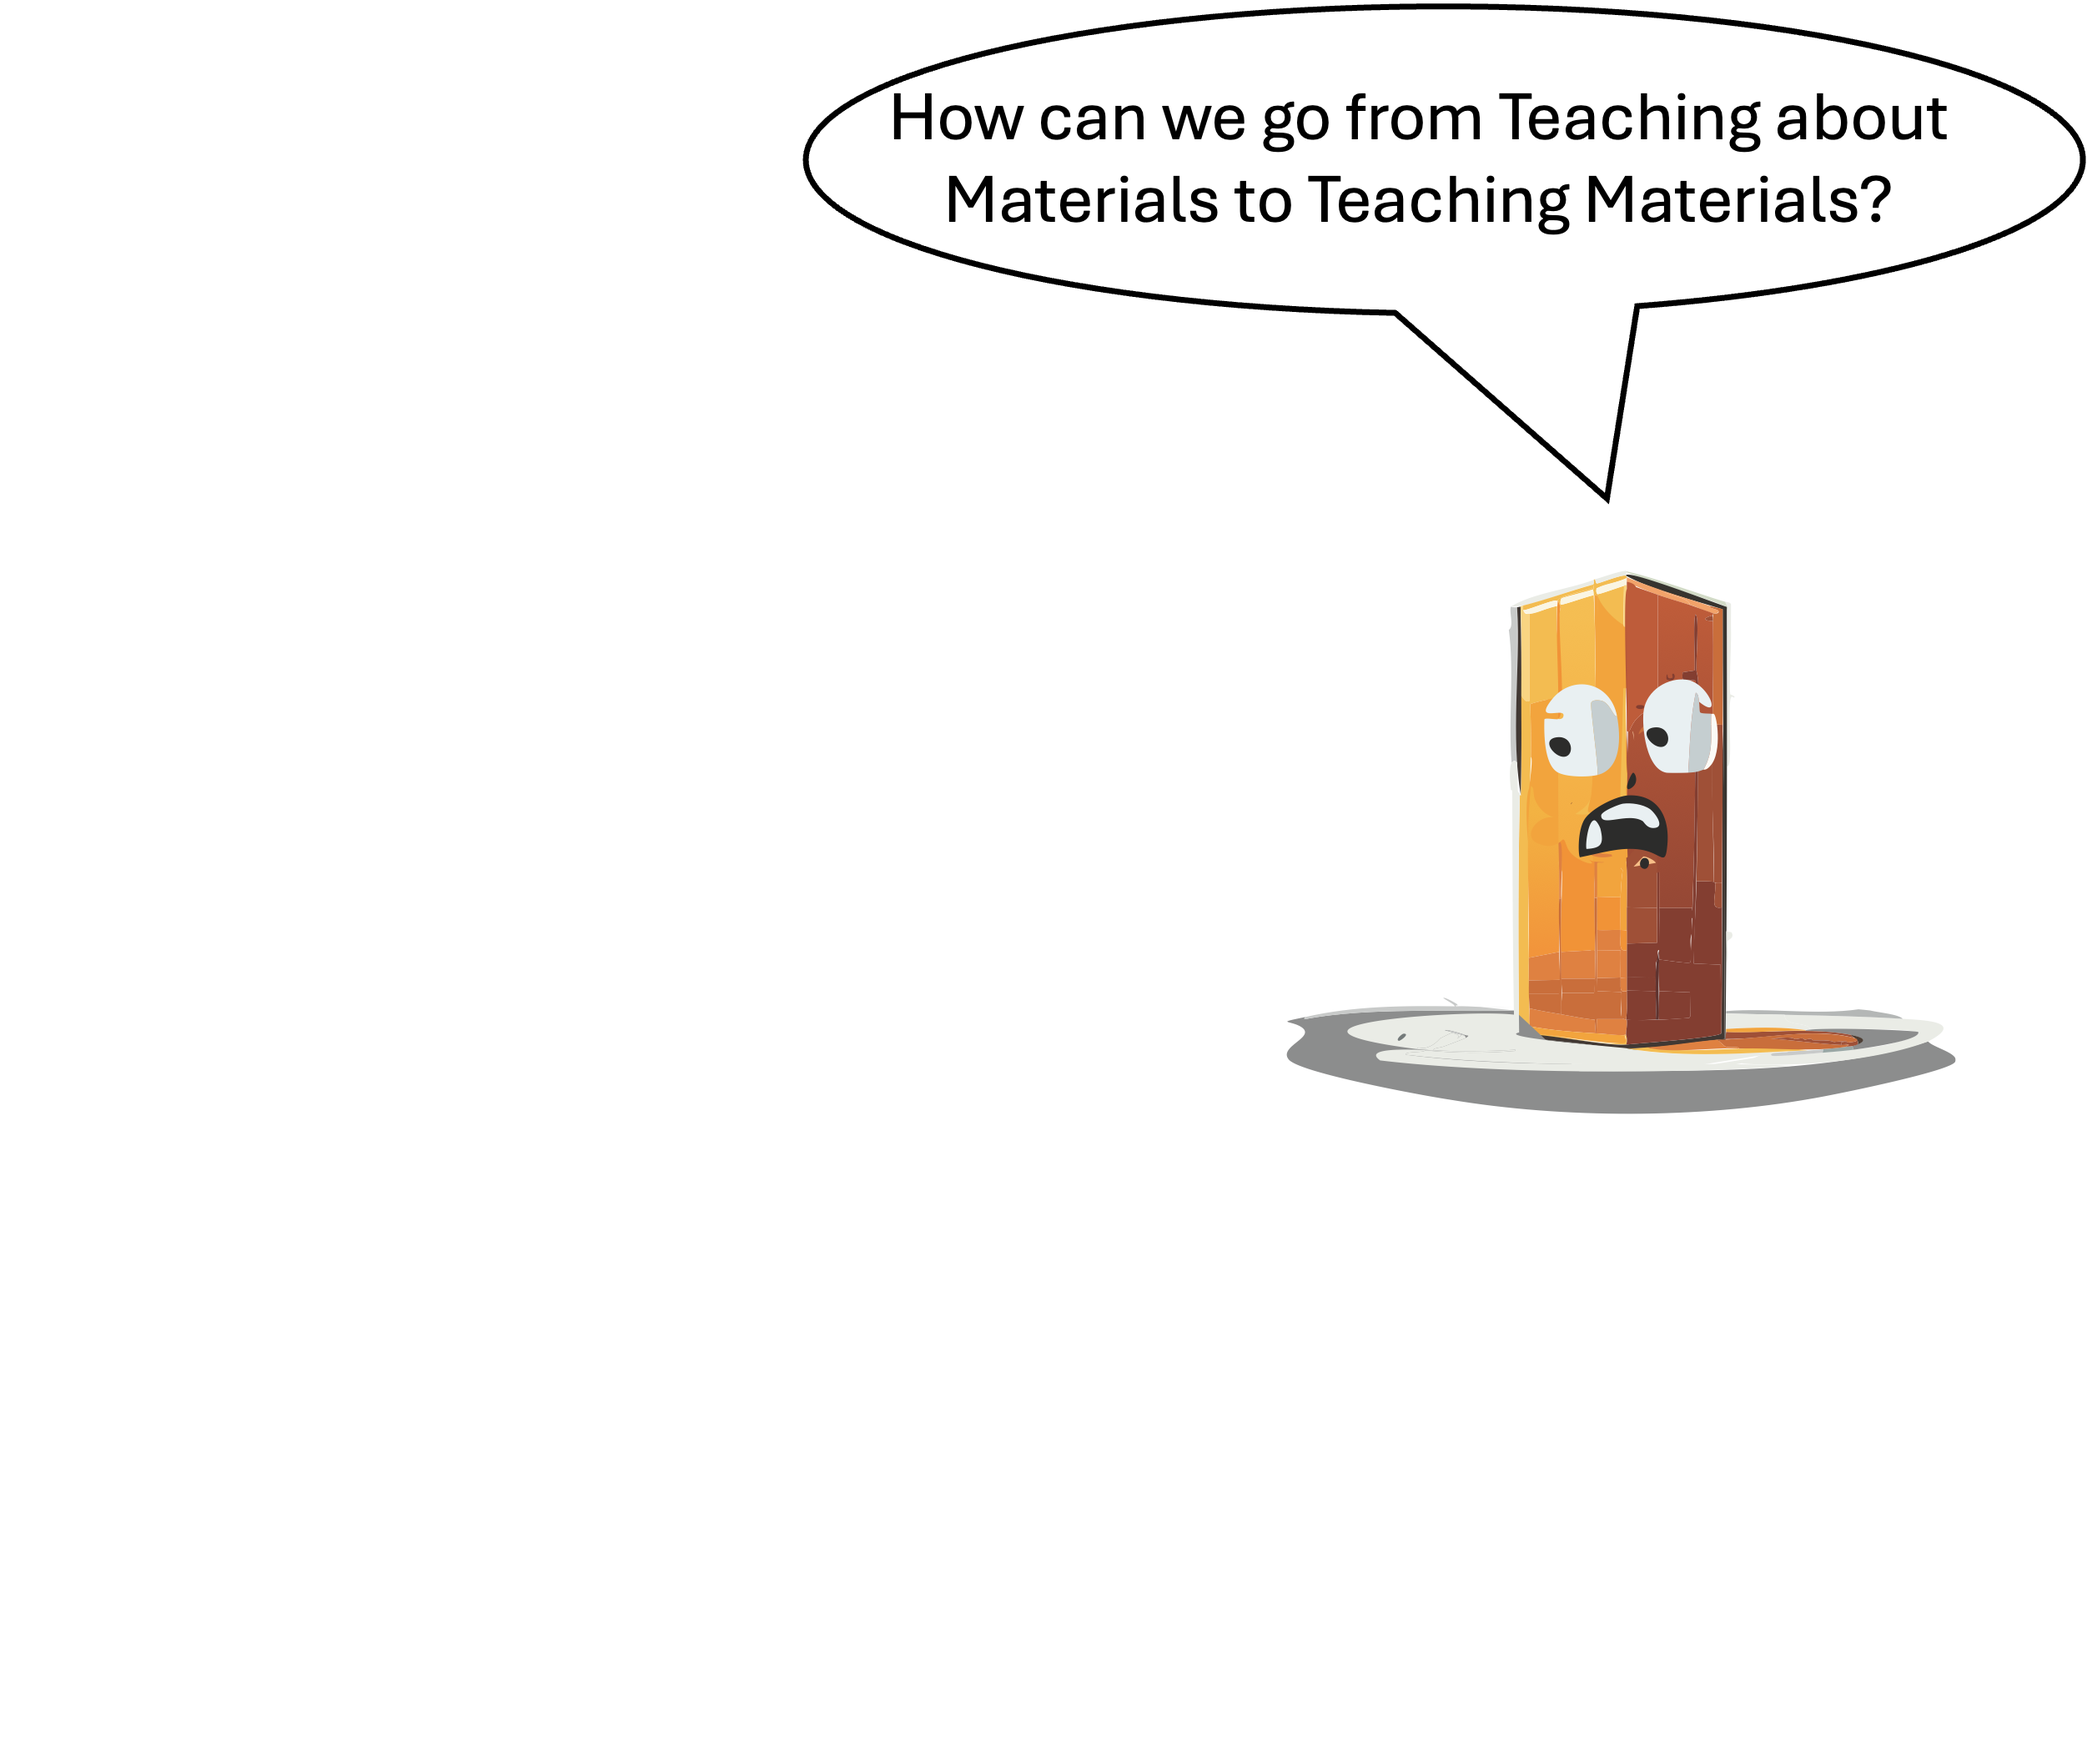
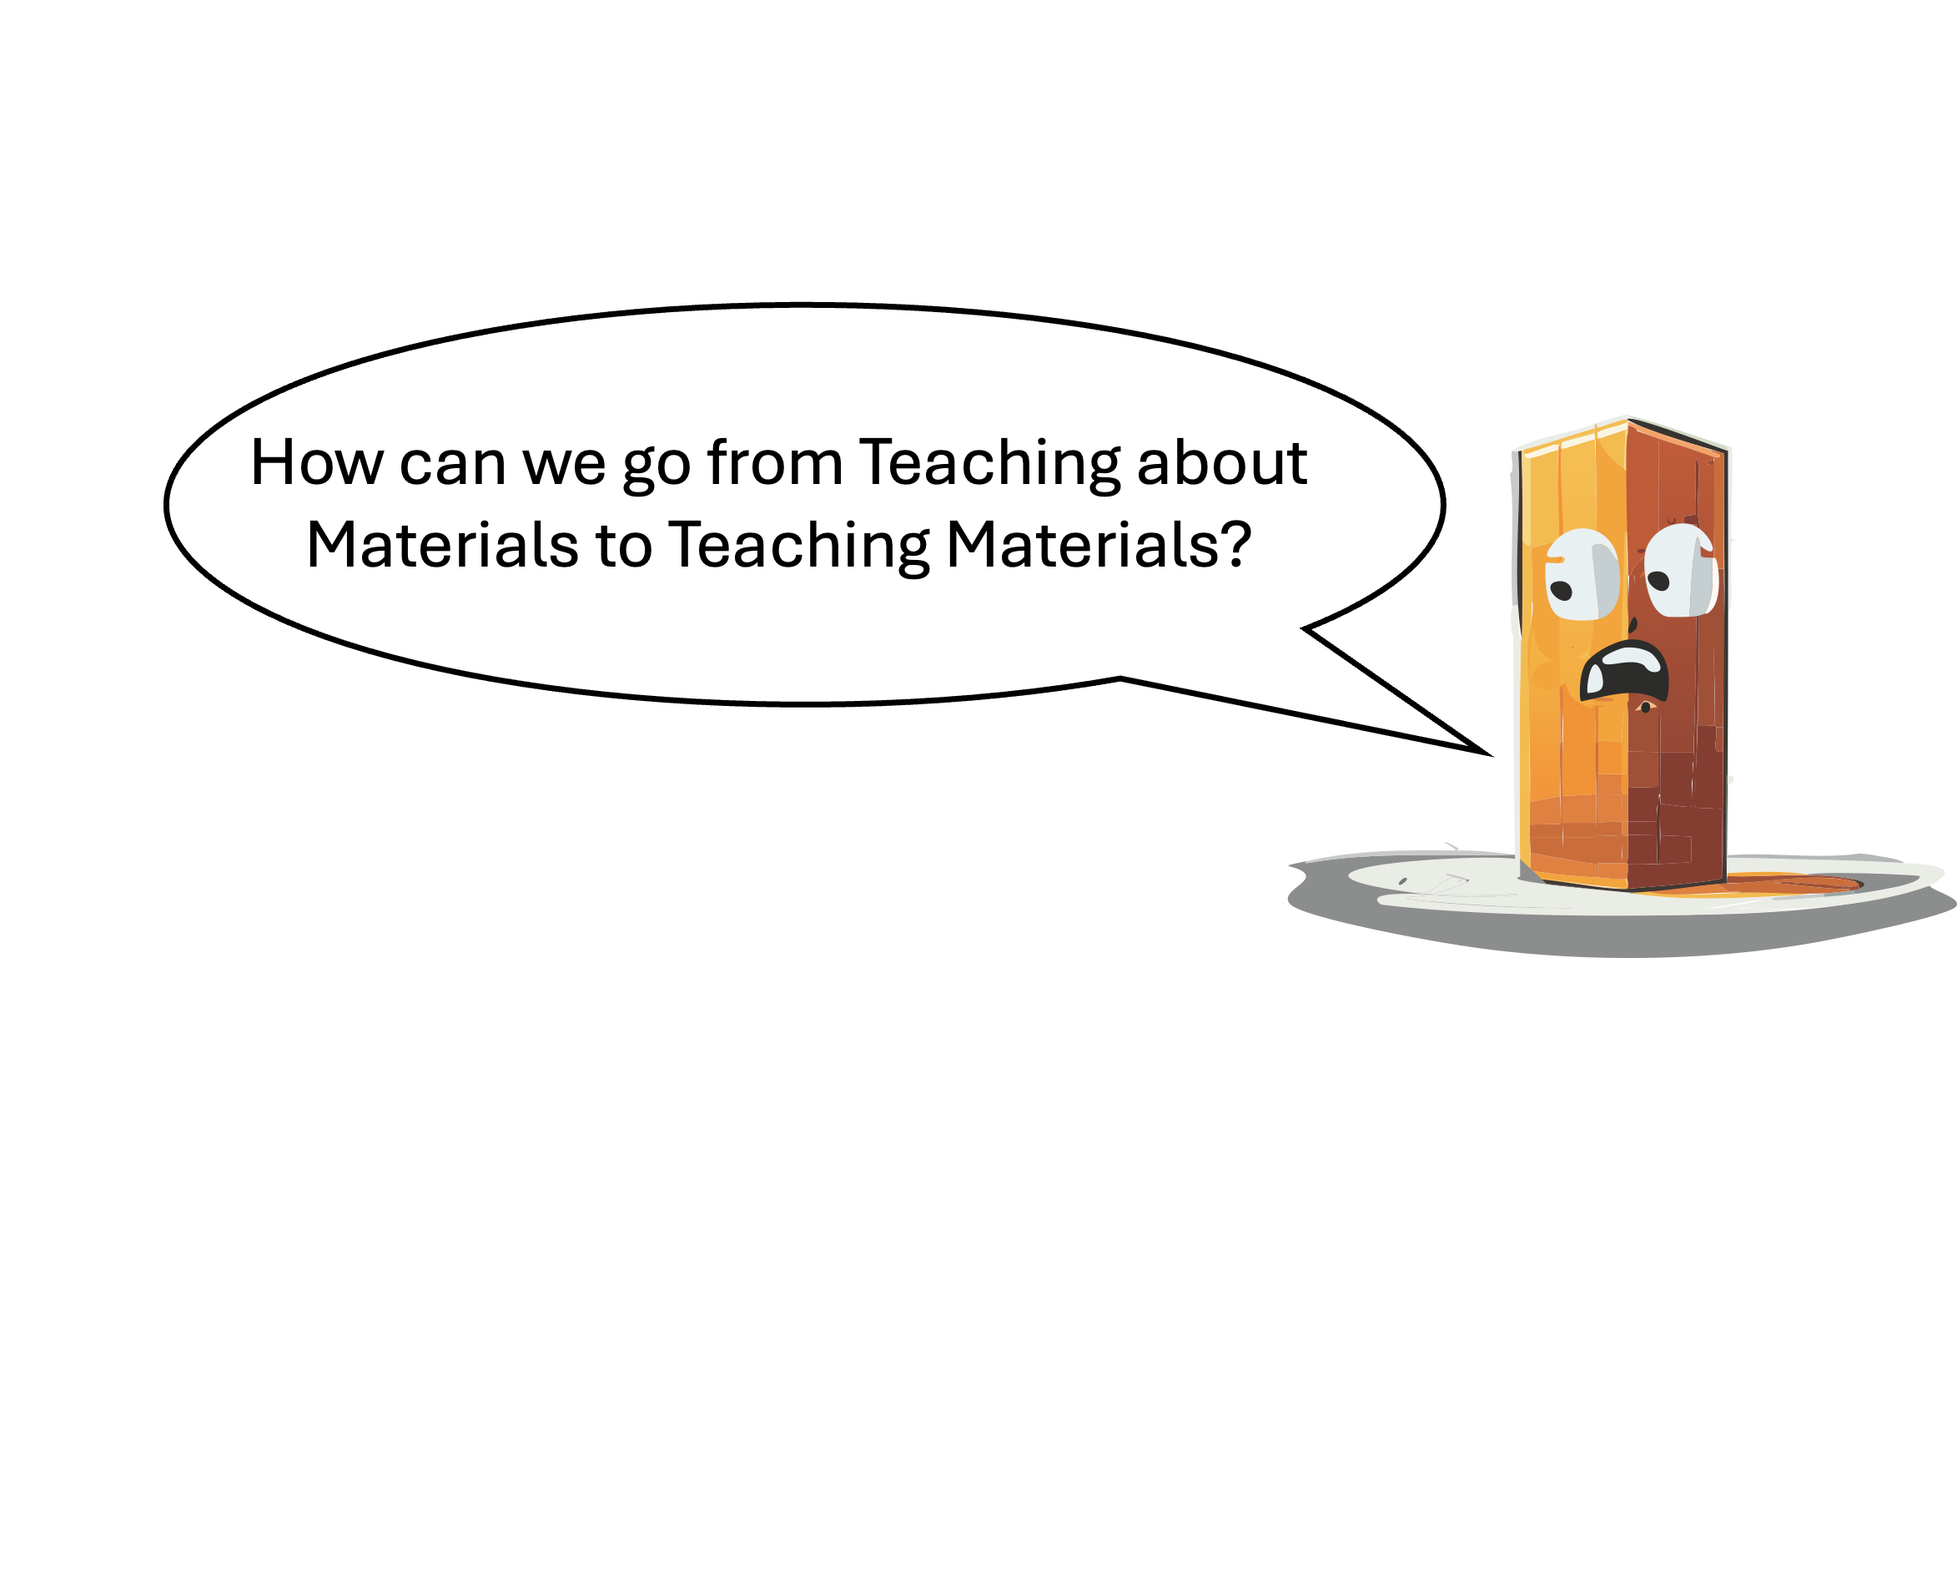
fixes

diff --git a/style.css b/style.css
@@ -95,8 +95,9 @@ video.card3-gif {
 
 /* Card 3 specific cartoon - larger size to fill available space */
 .card3-cartoon {
-  max-width: 800px !important;
-  width: 800px !important;
+  max-width: 500px !important;
+  width: 500px !important;
+  height: auto !important;
 }
 
 .abs-cartoon {
@@ -1094,8 +1095,8 @@ a:hover {
   color: #fff !important;
 }
 
-/* Ensure menu does not affect layout */
-.menu-container {
+/* Ensure menu does not affect layout - only apply on non-index pages */
+body:not(.index-page) .menu-container {
   position: fixed;
   top: 0;
   left: 0;
@@ -1122,63 +1123,58 @@ a:hover {
   justify-content: center;
   width: 100%;
   max-width: 1400px;
-  margin: 0 auto;
+  margin: 4em auto 0 auto;
   position: relative;
   z-index: 4;
-  gap: 0.5em;
-  padding: 2em 1em;
+  gap: 1em; /* REDUCED: from 2em to 1em - elements get closer */
+  padding: 2em 0.5em; /* REDUCED: side padding from 1em to 0.5em */
   /* Firefox compatibility fixes */
   flex-wrap: nowrap;
   min-height: 0;
   box-sizing: border-box;
 }
 .card3-video-wrap {
-  flex: 1 1 400px;
-  min-width: 300px;
-  max-width: 450px;
+  flex: 0 0 280px; /* REDUCED: from 300px to 280px */
+  width: 280px; /* REDUCED: from 300px to 280px */
   display: flex;
   align-items: center;
   justify-content: center;
-  margin-left: -190px; /* requested left shift; preserves current layout */
   /* Firefox compatibility fixes */
   flex-shrink: 0;
   box-sizing: border-box;
   overflow: hidden;
 }
 .card3-text-wrap {
-  flex: 1 1 400px;
-  max-width: 550px;
+  flex: 1;
+  max-width: 800px; /* REDUCED: from 1000px to 800px */
+  min-width: 400px !important; /* REDUCED: from 600px to 400px */
   display: flex;
   align-items: center;
   justify-content: center;
-  padding: 0 0em;
+  padding: 0 0.5em; /* REDUCED: from 1em to 0.5em */
   /* Firefox compatibility fixes */
   flex-shrink: 1;
   box-sizing: border-box;
   min-width: 0; /* Important for Firefox text wrapping */
 }
 .card3-cartoon-wrap {
-  flex: 0 0 400px;      /* wider to accommodate larger cartoon */
-  min-width: 350px;
-  margin-left: 3em;     /* more gap from the paragraph */
-  margin-top: -70px;    /* lift bubble to sit over the title line */
-  transform: none;
-  align-items: flex-start;
-  position: relative;
-  z-index: 12;          /* ensure bubble overlays the title */
+  flex: 0 0 450px; /* REDUCED: from 500px to 450px */
+  width: 450px; /* REDUCED: from 500px to 450px */
+  display: flex;
+  align-items: center;
+  justify-content: center;
+  margin-top: 10px;
   /* Firefox compatibility fixes */
   flex-shrink: 0;
   box-sizing: border-box;
-  display: flex;
 }
 .card3-cartoon-img {
-  width: 100%;
-  max-width: 650px;     /* even larger cartoon to fill space */
-  position: relative;
-  z-index: 12;          /* above title */
-  pointer-events: none; /* avoid intercepting clicks */
-  /* Firefox compatibility fixes */
+  width: 450px !important; /* REDUCED: from 500px to 450px */
+  max-width: 450px !important; /* REDUCED: from 500px to 450px */
   height: auto;
+  position: relative;
+  pointer-events: none;
+  /* Firefox compatibility fixes */
   display: block;
   box-sizing: border-box;
 }
@@ -1186,16 +1182,7 @@ a:hover {
 /* Firefox-specific fixes */
 @-moz-document url-prefix() {
   .card3-row {
-    gap: 1em; /* Increase gap for Firefox */
-  }
-  
-  .card3-video-wrap {
-    margin-left: -150px; /* Less aggressive negative margin for Firefox */
-  }
-  
-  .card3-cartoon-wrap {
-    margin-top: -50px; /* Less aggressive negative margin for Firefox */
-    margin-left: 2em;
+    gap: 2em; /* Maintain consistent gap for Firefox */
   }
   
   video.card3-gif {

diff --git a/index.html b/index.html
@@ -347,7 +347,7 @@
                   
                   <!-- Center Text - made broader -->
                   <div class="card3-text-wrap">
-                    <p class="carousel-textbox" style="background: rgba(17,17,17,0.92); border-radius: 1em; padding: 1em 1.5em; line-height: 1.4;">By orchestrating structure and responsiveness across scales, we enable materials to exhibit higher-order functions—such as memory, adaptation, and selective response—rooted in their physical architecture.</p>
+                    <p class="carousel-textbox" style="background: rgba(17,17,17,0.92); border-radius: 1em; padding: 1em 1.5em; line-height: 1.4; text-align: justify;">By orchestrating structure and responsiveness across scales, we enable materials to exhibit higher-order functions—such as memory, adaptation, and selective response—rooted in their physical architecture.</p>
                   </div>
                   
                   <!-- Right Cartoon - using different approach to get closer -->
